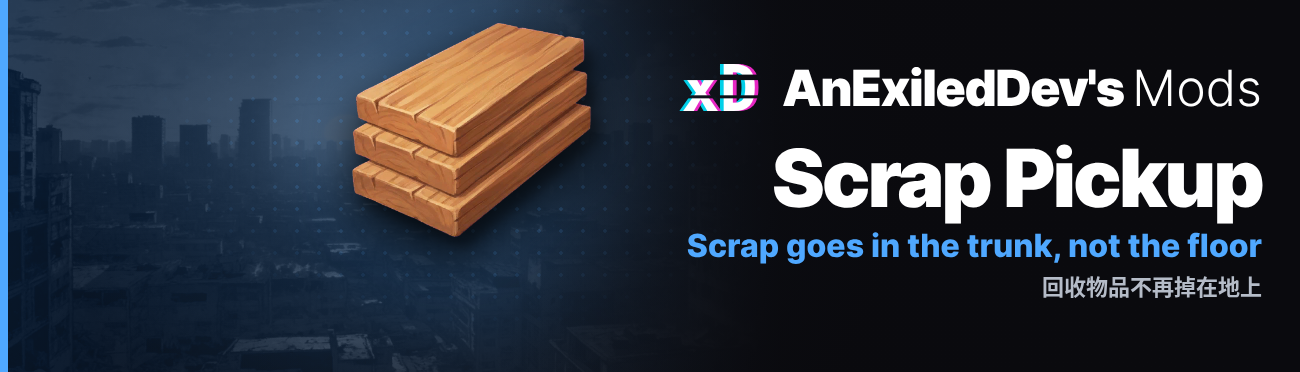
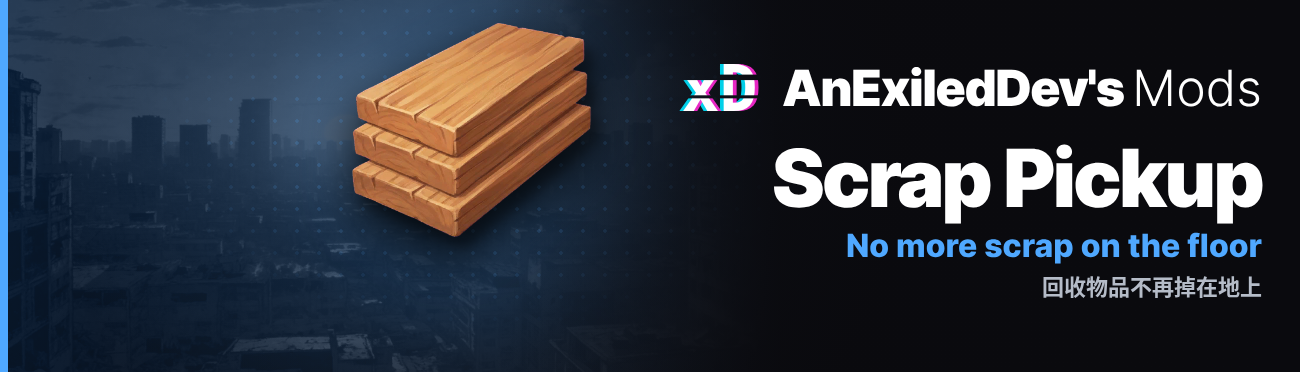
Scrap Pickup 0.1.4: clearer wording
The Mods screen description now says where items go in plain order, and the settings descriptions no longer lean on "they".
README, NEXUS.md, CONFIG.md and older changelog entries lose their semicolons and clipped lines, and say that ToTrunk turns the trunk off.
New header, thumbnail and features images.

Changed region(s): [[0.5231, 0.621, 0.8615, 0.7097]]

diff --git a/src/ScrapPickup/Plugin.cs b/src/ScrapPickup/Plugin.cs
@@ -13,16 +13,16 @@ namespace ScrapPickup;
 public sealed class Plugin : BasePlugin
 {
     private const string Guid = "com.dev.survivallog.scrappickup";
-    private const string Version = "0.1.3";
+    private const string Version = "0.1.4";
     private const string ToolkitGuid = "com.dev.survivallog.exiledtoolkit";
 
     public override void Load()
     {
         var isOn = Config.Bind("Scrap", "Enabled", ScrapSettings.Default.IsOn,
-            "Turns Scrap Pickup on. When false, items from furniture you scrap or demolish drop the same way they do without the mod.\n" +
-            "设为 true 时启用 Scrap Pickup。设为 false 时，回收或拆除家具得到的物品和没装本模组时一样掉落。");
+            "Turns Scrap Pickup on and off. When false, items from furniture you scrap or demolish drop like they do without the mod.\n" +
+            "设为 true 时启用 Scrap Pickup。设为 false 时，回收或拆除家具得到的物品和没装本模组时一样掉在地上。");
         var useTrunk = Config.Bind("Scrap", "ToTrunk", ScrapSettings.Default.UseTrunk,
-            "When true, items from furniture you scrap or demolish while exploring go to your trunk or shopping cart first, then your backpack. When false, or at home, they go to your backpack. They drop on the ground only when nothing has room.\n" +
+            "When true, items from furniture you scrap or demolish while exploring go to your trunk or shopping cart first, then your backpack. When false, or when you are at home, items go to your backpack. Items drop on the ground only when nothing has room.\n" +
             "设为 true 时，外出探索时回收或拆除家具得到的物品会先放进后备箱或购物车，再放进背包。设为 false 或在家时，物品会放进背包。只有都放不下时，物品才会掉在地上。");
 
         Log.LogInfo($"===== Scrap Pickup {Version} started");

diff --git a/README.md b/README.md
@@ -6,7 +6,7 @@ In Survival Log, demolishing furniture drops its materials on the floor, and scr
 
 ## Features
 
-- **Trunk first while exploring**: with a shopping cart or car, materials go to its trunk first, then your backpack.
+- **Trunk first while exploring**: with a shopping cart or car, materials go to its trunk first, then your backpack. The `ToTrunk` setting turns this off.
 - **Backpack at home**: the trunk is not with you at home, so materials go to your backpack.
 - **Ground only as a last resort**: items drop on the ground only when the trunk and the backpack have no room.
 - **Both ways of removing furniture**: works for Scrap and for Demolish.
@@ -17,9 +17,9 @@ Scrap Pickup adds nothing to your save and does not edit game files. You can rem
 
 ## Requirements
 
-- Survival Log 1.1.20719. Built for this version; a game update can break it until the mod is updated.
+- Survival Log 1.1.20719. A game update can break the mod until it gets an update too.
 - The [BepInEx Pack for Survival Log](https://www.nexusmods.com/survivallog/mods/12), the BepInEx 6 (IL2CPP) build for the game.
-- [Exiled's Toolkit](https://github.com/AnExiledDev/SurvivalLog-ExiledToolkit) 0.19.0 or newer. Scrap Pickup does not load without it. It applies settings changed on the Mod Manager's Mods screen without restarting the game.
+- [Exiled's Toolkit](https://github.com/AnExiledDev/SurvivalLog-ExiledToolkit) 0.19.0 or newer. Scrap Pickup does not load without it. The Toolkit is what makes a setting you change on the Mod Manager's Mods screen apply without restarting the game.
 - Optional: [Mod Manager](https://www.nexusmods.com/survivallog/mods/73). With it, you can change every setting in game on its Mods screen and see what each one does, without opening the config file.
 
 ## Install
@@ -32,17 +32,17 @@ Scrap Pickup adds nothing to your save and does not edit game files. You can rem
 
 ## Uninstall
 
-Delete `ScrapPickup.dll` from the `BepInEx\plugins` folder. For a clean slate, also delete `BepInEx\config\com.dev.survivallog.scrappickup.cfg`.
+Delete `ScrapPickup.dll` from the `BepInEx\plugins` folder. To remove your settings too, also delete `BepInEx\config\com.dev.survivallog.scrappickup.cfg`.
 
 ## Configuration
 
-Settings live in `BepInEx\config\com.dev.survivallog.scrappickup.cfg`, created the first time the game starts with the mod. Change them in game on the Mod Manager's Mods screen, where they take effect at once, or edit the file while the game is closed. See [CONFIG.md](CONFIG.md) for every setting.
+Settings are in `BepInEx\config\com.dev.survivallog.scrappickup.cfg`, which is created the first time the game starts with the mod. You can change them in game on the Mod Manager's Mods screen, where changes apply right away, or edit the file while the game is closed. See [CONFIG.md](CONFIG.md) for every setting.
 
 ## Troubleshooting
 
 Built against BepInEx `6.0.0-be.788`.
 
-Check `BepInEx\LogOutput.log` for `===== Scrap Pickup 0.1.3 started`, followed by lines starting with `hooked`. A line starting with `could not hook` means part of the mod does not work on this game version, and that part works as in the unmodded game.
+Check `BepInEx\LogOutput.log` for `===== Scrap Pickup 0.1.4 started`, followed by lines starting with `hooked`. A line starting with `could not hook` means part of the mod does not work on this game version. That part then works the same as it does without the mod.
 
 ## Known issues
 
@@ -50,9 +50,9 @@ Check `BepInEx\LogOutput.log` for `===== Scrap Pickup 0.1.3 started`, followed b
 
 ## Feedback and bug reports
 
-Found a bug, have an idea, or something feels off? Come say so on the Core Directive Discord: https://discord.gg/trTsyxUFqg . You can also post in the Posts tab of the mod's Nexus Mods page. When reporting a bug, attach `BepInEx\LogOutput.log`.
+Found a bug or have an idea? Come say so on the Core Directive Discord: https://discord.gg/trTsyxUFqg . You can also post in the Posts tab of the mod's Nexus Mods page. When reporting a bug, attach `BepInEx\LogOutput.log`.
 
-To reach me directly, message `exiled.dev` on Discord; you can find me in the [official Survival Log Discord](https://discord.gg/MZGg4gQAUe). I'm also on X as [@AnExiledDev](https://x.com/AnExiledDev).
+To reach me directly, message `exiled.dev` on Discord. You can find me in the [official Survival Log Discord](https://discord.gg/MZGg4gQAUe). I'm also on X as [@AnExiledDev](https://x.com/AnExiledDev).
 
 A Survival Log wiki with detailed documentation for all of my mods is coming soon.
 
@@ -66,7 +66,7 @@ dotnet build src/ScrapPickup -c Release -p:GameDir="C:\path\to\Survival Log" -p:
 
 `GameDir` is the game folder. The default in the project file is a local path you will almost certainly need to override. The output DLL is at `src\ScrapPickup\bin\Release\ScrapPickup.dll`.
 
-The unit tests cover the pure routing rules and need nothing from the game:
+The unit tests check where items go and need nothing from the game:
 
 ```
 dotnet test tests/ScrapPickup.Tests

diff --git a/CONFIG.md b/CONFIG.md
@@ -1,10 +1,10 @@
 # Scrap Pickup settings
 
-Settings live in `BepInEx\config\com.dev.survivallog.scrappickup.cfg`, created the first time the game starts with the mod. Change them in game on the Mod Manager's Mods screen, where they take effect at once, or edit the file while the game is closed. Delete the file to get the defaults back.
+Settings are in `BepInEx\config\com.dev.survivallog.scrappickup.cfg`, which is created the first time the game starts with the mod. You can change them in game on the Mod Manager's Mods screen, where changes apply right away, or edit the file while the game is closed. Delete the file to get the defaults back.
 
 ## Scrap
 
 | Setting | Default | What it does |
 | --- | --- | --- |
 | `Enabled` | `true` | Turns Scrap Pickup on and off. While it is `false`, items from furniture you scrap or demolish drop the way they do without the mod. |
-| `ToTrunk` | `true` | While exploring, items from furniture you scrap or demolish go to your trunk or shopping cart first, then your backpack. Set it to `false` to skip the trunk; items then go to your backpack. At home the trunk is never used. Items drop on the ground only when nothing has room. |
+| `ToTrunk` | `true` | While exploring, items from furniture you scrap or demolish go to your trunk or shopping cart first, then your backpack. Set it to `false` to skip the trunk, so items go straight to your backpack. At home the trunk is never used. Items drop on the ground only when nothing has room. |

diff --git a/CHANGELOG.md b/CHANGELOG.md
@@ -1,18 +1,23 @@
 # Changelog
 
+## 0.1.4
+
+- Clearer wording in the settings and on the Mods screen.
+- Made for Survival Log 1.1.20719.
+
 ## 0.1.3
 
-- New setting `Enabled` under Scrap turns the mod on and off. It is on by default. Off, items from furniture you scrap or demolish drop the way they do without the mod.
+- New setting `Enabled` under Scrap turns the mod on and off. It is on by default. When it is off, items from furniture you scrap or demolish drop like they do without the mod.
 - Made for Survival Log 1.1.20719.
 
 ## 0.1.1
 
-- Now uses Exiled's Toolkit for its shared parts, so it needs Exiled's Toolkit 0.19.0 or newer. Settings you change on the Mods screen always take effect right away.
+- Now needs Exiled's Toolkit 0.19.0 or newer. Settings you change on the Mods screen always apply right away.
 - Made for Survival Log 1.1.20719.
 
 ## 0.1.0
 
 - First release.
 - While exploring, materials from furniture you scrap or demolish go into your trunk or shopping cart, then your backpack.
-- At home, they go into your backpack.
-- They only drop on the ground when nothing has room.
+- At home, materials from furniture you scrap or demolish go into your backpack.
+- Materials drop on the ground only when nothing has room for them.
